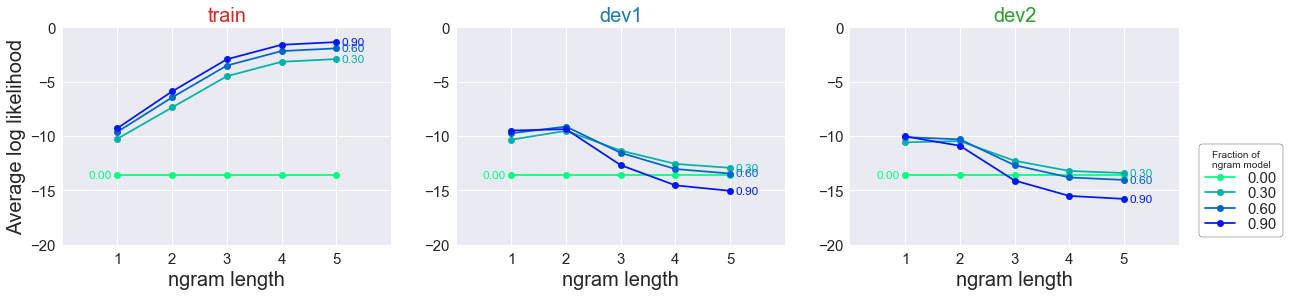
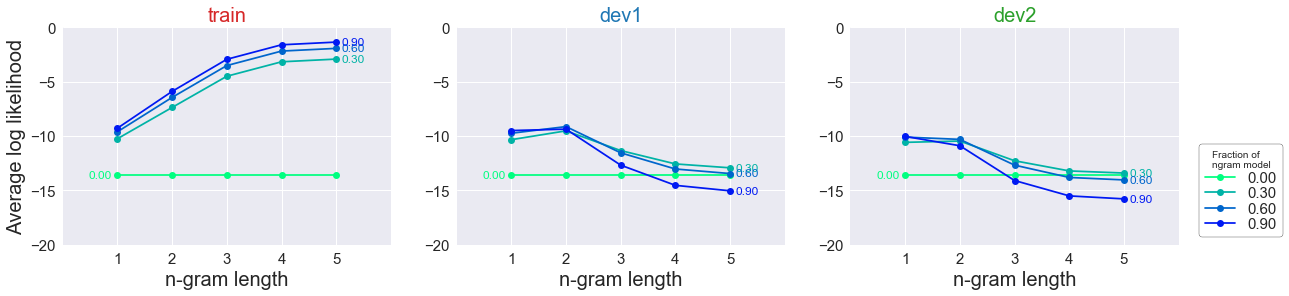
Small rename of variables and graph labels

Changed region(s): [[0.7137, 0.9122, 0.8379, 0.973], [0.1241, 0.9122, 0.2483, 0.973], [0.4344, 0.9122, 0.5275, 0.973]]

diff --git a/analysis/ngram.py b/analysis/ngram.py
@@ -94,8 +94,8 @@ class NgramModel:
         :return: probability matrix of evaluation text (number of words * number of models)
         """
         eval_token_count = sum(len(sentence) for sentence in get_tokenized_sentences(eval_file))
-        eval_prob_matrix = np.zeros(shape=(eval_token_count, 6))
-        eval_prob_matrix[:, 0] = self.uniform_prob
+        prob_matrix = np.zeros(shape=(eval_token_count, 6))
+        prob_matrix[:, 0] = self.uniform_prob
 
         row = 0
         for sentence in get_tokenized_sentences(eval_file):
@@ -106,11 +106,11 @@ class NgramModel:
                     # For n-gram at start of sentence (negative start position)
                     if ngram_start < 0:
                         ngram = tuple(sentence[0:ngram_end])
-                        eval_prob_matrix[row, ngram_length] = self.start_probs.get(ngram, 0)
+                        prob_matrix[row, ngram_length] = self.start_probs.get(ngram, 0)
                     # For regular n-gram (non-negative start position)
                     else:
                         ngram = tuple(sentence[ngram_start:ngram_end])
-                        eval_prob_matrix[row, ngram_length] = self.probs.get(ngram, 0)
+                        prob_matrix[row, ngram_length] = self.probs.get(ngram, 0)
                 row += 1
 
-        return eval_prob_matrix
+        return prob_matrix
